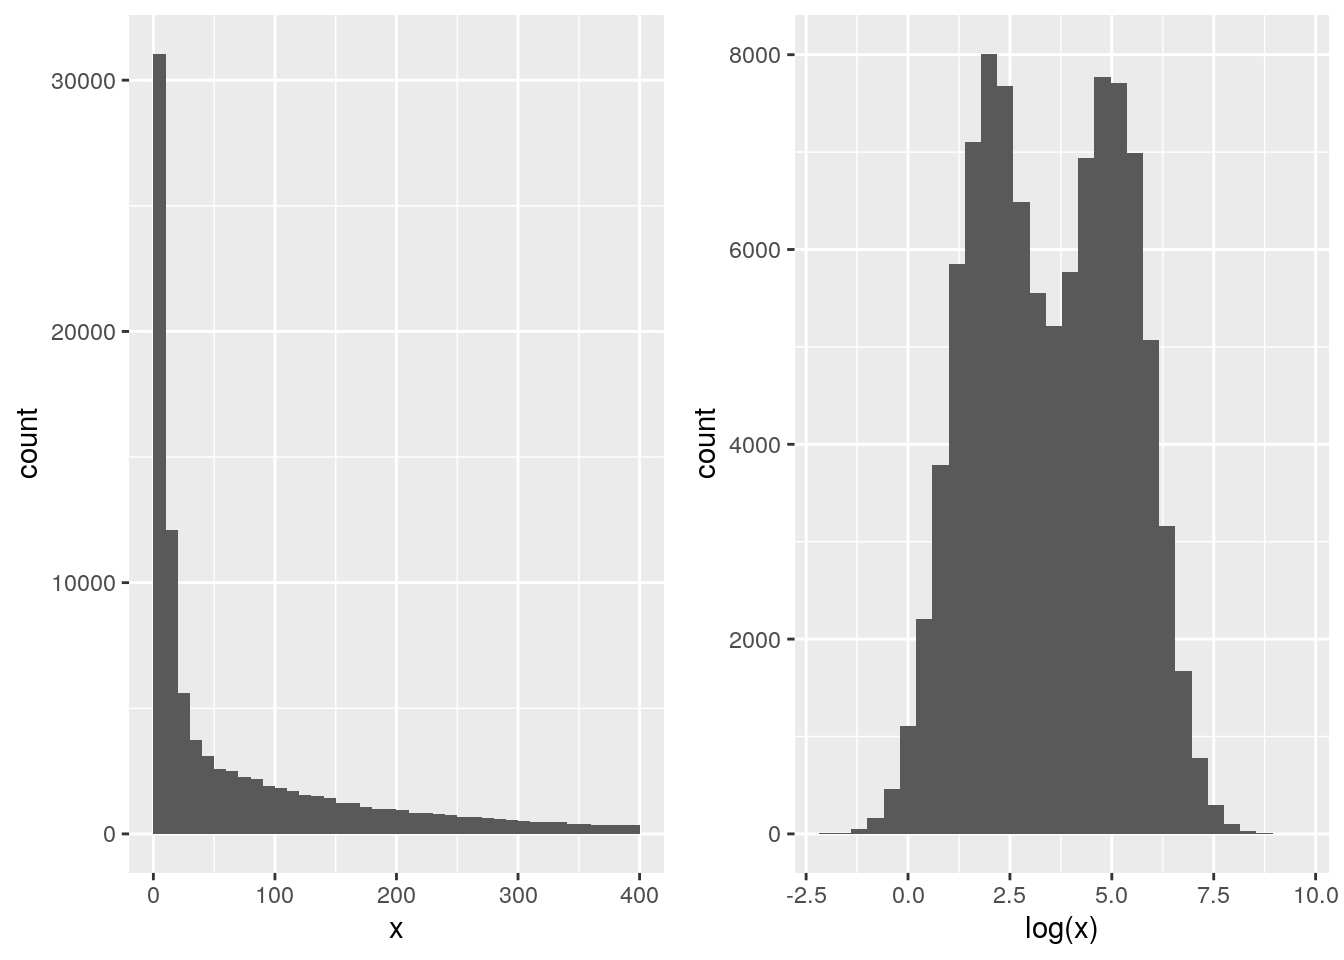
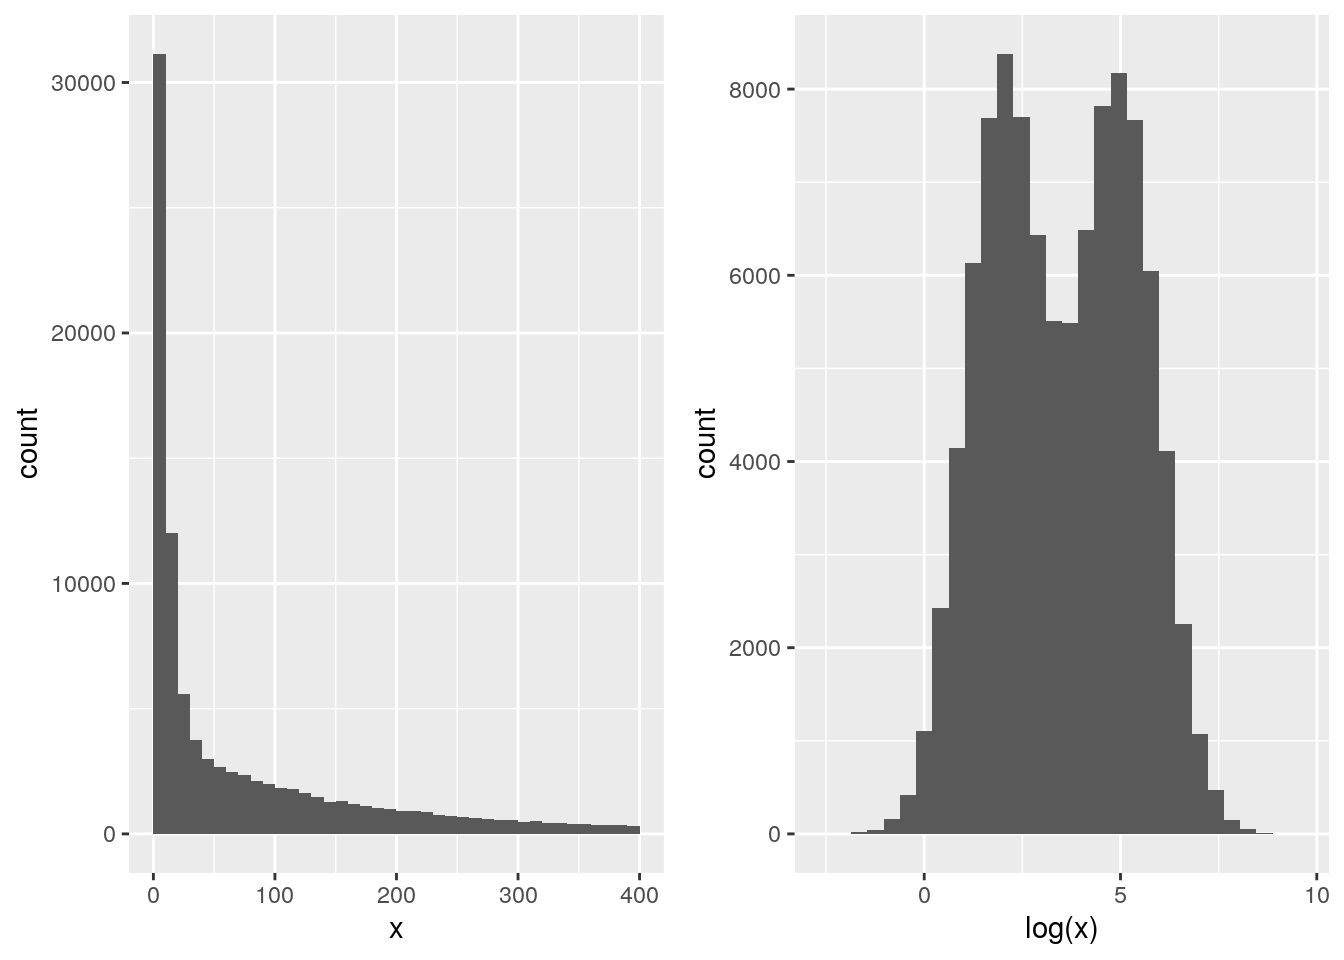
fix wrong t-test formula (spotted by a student - well done!)

diff --git a/docs/sec-vis.html b/docs/sec-vis.html
@@ -15,7 +15,7 @@
 
 <meta name="author" content="Laurent Gatto" />
 
-<meta name="date" content="2019-10-31" />
+<meta name="date" content="2019-11-04" />
 
 <script type="text/x-mathjax-config">
 MathJax.Hub.Config({
@@ -720,7 +720,7 @@ p1 &lt;-<span class="st">  </span><span class="kw">ggplot</span>(sim, <span clas
 p2 &lt;-<span class="st">  </span><span class="kw">ggplot</span>(sim, <span class="kw">aes</span>(<span class="kw">log</span>(x))) <span class="op">+</span>
 <span class="st">    </span><span class="kw">geom_histogram</span>(<span class="dt">bins =</span> <span class="dv">30</span>)
 p1 <span class="op">+</span><span class="st"> </span>p2</code></pre></div>
-<pre><code>## Warning: Removed 7981 rows containing non-finite values (stat_bin).</code></pre>
+<pre><code>## Warning: Removed 8075 rows containing non-finite values (stat_bin).</code></pre>
 <div class="figure">
 <span id="fig:sim"></span>
 <p class="caption marginnote shownote">
@@ -937,7 +937,7 @@ scp2 &lt;-<span class="st"> </span>scp <span class="op">+</span><span class="st"
 <a href="sec-obj.html"><button class="btn btn-default">Next</button></a>
 </p>
 <p class="build-date">Page built: 
-2019-10-31
+2019-11-04
 </p>
 </div>
 </div>

diff --git a/docs/sec-testing.html b/docs/sec-testing.html
@@ -15,7 +15,7 @@
 
 <meta name="author" content="Laurent Gatto" />
 
-<meta name="date" content="2019-10-31" />
+<meta name="date" content="2019-11-04" />
 
 <script type="text/x-mathjax-config">
 MathJax.Hub.Config({
@@ -270,7 +270,7 @@ Figure 7.3: Expression of a gene in two populations with randomly chosen triplic
 <p>and calculate a two-sided, two-sample t-test (assuming unequal variances) with</p>
 <p><span class="math display">\[
 t = \frac{ \bar X_{1} - \bar X_{2} }
-         { \sqrt{ \frac{ s_{1}^{2} }{ N_{1} } \frac{ s_{2}^{2} }{ N_{2} } } }
+         { \sqrt{ \frac{ s_{1}^{2} }{ N_{1} } + \frac{ s_{2}^{2} }{ N_{2} } } }
 \]</span></p>
 <p>where <span class="math inline">\(\bar X_i\)</span>, <span class="math inline">\(s_{i}^{2}\)</span> and <span class="math inline">\(N_i\)</span> are the mean, variance and size of samples 1 and 2.</p>
 <p>A t-test has the following assumptions:</p>
@@ -859,7 +859,7 @@ binomial_dens &lt;-
 <a href="sec-ul.html"><button class="btn btn-default">Next</button></a>
 </p>
 <p class="build-date">Page built: 
-2019-10-31
+2019-11-04
 </p>
 </div>
 </div>

diff --git a/docs/index.html b/docs/index.html
@@ -15,7 +15,7 @@
 
 <meta name="author" content="Laurent Gatto" />
 
-<meta name="date" content="2019-10-31" />
+<meta name="date" content="2019-11-04" />
 
 <script type="text/x-mathjax-config">
 MathJax.Hub.Config({
@@ -197,7 +197,7 @@ devtools<span class="op">::</span><span class="kw">install_github</span>(<span c
 <a href="sec-refresher.html"><button class="btn btn-default">Next</button></a>
 </p>
 <p class="build-date">Page built: 
-2019-10-31
+2019-11-04
 </p>
 </div>
 </div>

diff --git a/docs/sec-si.html b/docs/sec-si.html
@@ -15,7 +15,7 @@
 
 <meta name="author" content="Laurent Gatto" />
 
-<meta name="date" content="2019-10-31" />
+<meta name="date" content="2019-11-04" />
 
 <script type="text/x-mathjax-config">
 MathJax.Hub.Config({
@@ -274,7 +274,7 @@ BiocManager<span class="op">::</span><span class="kw">install</span>(pkgs)</code
 <a href="sec-ccl.html"><button class="btn btn-default">Previous</button></a>
 </p>
 <p class="build-date">Page built: 
-2019-10-31
+2019-11-04
 </p>
 </div>
 </div>

diff --git a/docs/sec-sl.html b/docs/sec-sl.html
@@ -15,7 +15,7 @@
 
 <meta name="author" content="Laurent Gatto" />
 
-<meta name="date" content="2019-10-31" />
+<meta name="date" content="2019-11-04" />
 
 <script type="text/x-mathjax-config">
 MathJax.Hub.Config({
@@ -140,7 +140,7 @@ code > span.in { color: #60a0b0; font-weight: bold; font-style: italic; } /* Inf
 <a href="sec-biovis.html"><button class="btn btn-default">Next</button></a>
 </p>
 <p class="build-date">Page built: 
-2019-10-31
+2019-11-04
 </p>
 </div>
 </div>

diff --git a/docs/sec-ul.html b/docs/sec-ul.html
@@ -15,7 +15,7 @@
 
 <meta name="author" content="Laurent Gatto" />
 
-<meta name="date" content="2019-10-31" />
+<meta name="date" content="2019-11-04" />
 
 <script type="text/x-mathjax-config">
 MathJax.Hub.Config({
@@ -140,7 +140,7 @@ code > span.in { color: #60a0b0; font-weight: bold; font-style: italic; } /* Inf
 <a href="sec-dimred.html"><button class="btn btn-default">Next</button></a>
 </p>
 <p class="build-date">Page built: 
-2019-10-31
+2019-11-04
 </p>
 </div>
 </div>

diff --git a/docs/sec-biovis.html b/docs/sec-biovis.html
@@ -15,7 +15,7 @@
 
 <meta name="author" content="Laurent Gatto" />
 
-<meta name="date" content="2019-10-31" />
+<meta name="date" content="2019-11-04" />
 
 <script type="text/x-mathjax-config">
 MathJax.Hub.Config({
@@ -145,7 +145,7 @@ code > span.in { color: #60a0b0; font-weight: bold; font-style: italic; } /* Inf
 <a href="sec-ccl.html"><button class="btn btn-default">Next</button></a>
 </p>
 <p class="build-date">Page built: 
-2019-10-31
+2019-11-04
 </p>
 </div>
 </div>

diff --git a/docs/sec-refresher.html b/docs/sec-refresher.html
@@ -15,7 +15,7 @@
 
 <meta name="author" content="Laurent Gatto" />
 
-<meta name="date" content="2019-10-31" />
+<meta name="date" content="2019-11-04" />
 
 <script type="text/x-mathjax-config">
 MathJax.Hub.Config({
@@ -274,7 +274,7 @@ code > span.in { color: #60a0b0; font-weight: bold; font-style: italic; } /* Inf
 <a href="sec-vis.html"><button class="btn btn-default">Next</button></a>
 </p>
 <p class="build-date">Page built: 
-2019-10-31
+2019-11-04
 </p>
 </div>
 </div>

diff --git a/docs/sec-ccl.html b/docs/sec-ccl.html
@@ -15,7 +15,7 @@
 
 <meta name="author" content="Laurent Gatto" />
 
-<meta name="date" content="2019-10-31" />
+<meta name="date" content="2019-11-04" />
 
 <script type="text/x-mathjax-config">
 MathJax.Hub.Config({
@@ -140,7 +140,7 @@ code > span.in { color: #60a0b0; font-weight: bold; font-style: italic; } /* Inf
 <a href="sec-si.html"><button class="btn btn-default">Next</button></a>
 </p>
 <p class="build-date">Page built: 
-2019-10-31
+2019-11-04
 </p>
 </div>
 </div>

diff --git a/docs/sec-dimred.html b/docs/sec-dimred.html
@@ -15,7 +15,7 @@
 
 <meta name="author" content="Laurent Gatto" />
 
-<meta name="date" content="2019-10-31" />
+<meta name="date" content="2019-11-04" />
 
 <script type="text/x-mathjax-config">
 MathJax.Hub.Config({
@@ -141,7 +141,7 @@ code > span.in { color: #60a0b0; font-weight: bold; font-style: italic; } /* Inf
 <a href="sec-sl.html"><button class="btn btn-default">Next</button></a>
 </p>
 <p class="build-date">Page built: 
-2019-10-31
+2019-11-04
 </p>
 </div>
 </div>

diff --git a/docs/sec-mlintro.html b/docs/sec-mlintro.html
@@ -15,7 +15,7 @@
 
 <meta name="author" content="Laurent Gatto" />
 
-<meta name="date" content="2019-10-31" />
+<meta name="date" content="2019-11-04" />
 
 <script type="text/x-mathjax-config">
 MathJax.Hub.Config({
@@ -588,7 +588,7 @@ Figure 6.9: A dataset of 100 labelled and three new, unlalled, points.
 <a href="sec-testing.html"><button class="btn btn-default">Next</button></a>
 </p>
 <p class="build-date">Page built: 
-2019-10-31
+2019-11-04
 </p>
 </div>
 </div>

diff --git a/docs/sec-biostrings.html b/docs/sec-biostrings.html
@@ -15,7 +15,7 @@
 
 <meta name="author" content="Laurent Gatto" />
 
-<meta name="date" content="2019-10-31" />
+<meta name="date" content="2019-11-04" />
 
 <script type="text/x-mathjax-config">
 MathJax.Hub.Config({
@@ -768,7 +768,7 @@ Figure 4.1: GC content for chomosome 2L (10 - 11 Mb)
 <a href="sec-norm.html"><button class="btn btn-default">Next</button></a>
 </p>
 <p class="build-date">Page built: 
-2019-10-31
+2019-11-04
 </p>
 </div>
 </div>
